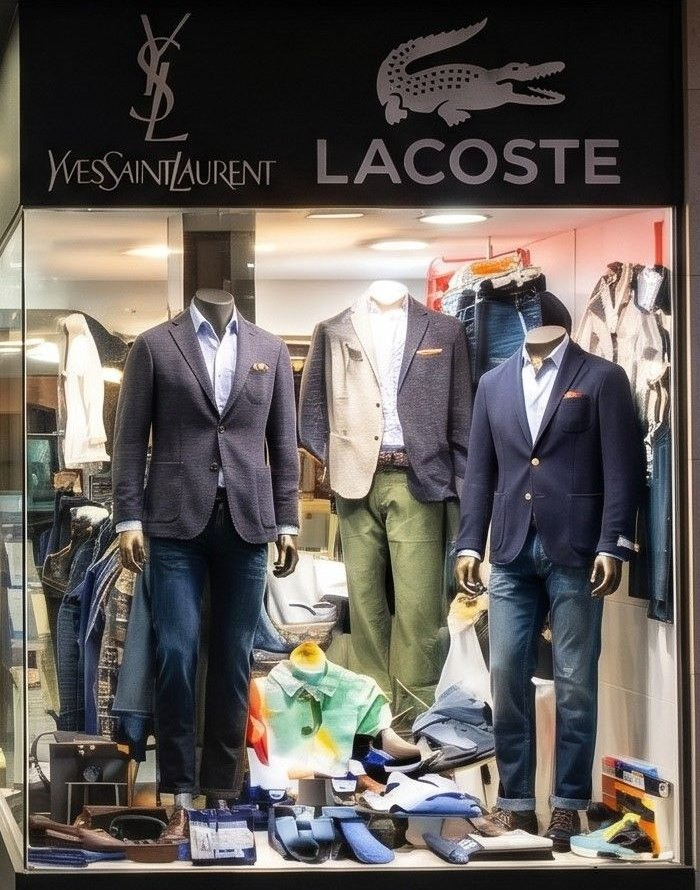
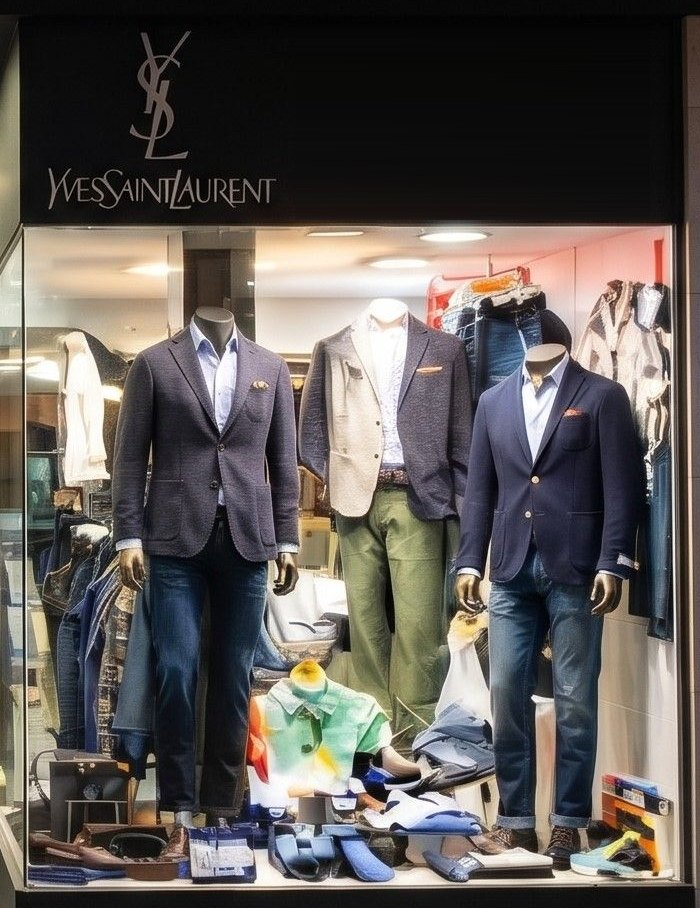
Quita la marca Lacoste (textos, FAQ, datos y cartel retocado en la foto del local)

diff --git a/index.html b/index.html
@@ -4,7 +4,7 @@
   <meta charset="UTF-8" />
   <meta name="viewport" content="width=device-width, initial-scale=1.0"/>
   <title>MIO | Ropa de hombre en Parque Patricios, Buenos Aires</title>
-  <meta name="description" content="Ropa de hombre en Parque Patricios desde 1968: jeans, chombas, bermudas y trajes. Wrangler, Taverniti, YSL, Lacoste y más. Hasta talle 64. La Rioja 2186, CABA."/>
+  <meta name="description" content="Ropa de hombre en Parque Patricios desde 1968: jeans, chombas, bermudas y trajes. Wrangler, Taverniti, YSL y más. Hasta talle 64. La Rioja 2186, CABA."/>
   <link rel="canonical" href="https://mioparquepatricios.github.io/"/>
 
   <meta property="og:type" content="website"/>
@@ -1078,7 +1078,7 @@
     .about .section-eyebrow, .temporada .section-eyebrow { color: #7d5f2a !important; }
     .about .section-title em, .temporada .section-title em { color: #9a7a3c; }
     .contact-value a { display: inline-block; padding: .55rem 0; }
-    .brands-grid { grid-template-columns: repeat(5, 1fr) !important; }
+    .brands-grid { grid-template-columns: repeat(3, 1fr) !important; }
     @media (max-width: 900px) { .brands-grid { grid-template-columns: repeat(2, 1fr) !important; } }
 
     .gi-label { position: absolute; bottom: 0; left: 0; right: 0; background: linear-gradient(transparent, rgba(0,0,0,0.75)); padding: 1.6rem .8rem .8rem; color: #fff; font-family: 'Barlow Condensed', sans-serif; font-size: .74rem; letter-spacing: .16em; text-transform: uppercase; line-height: 1.3; }
@@ -1131,7 +1131,7 @@
       {"@type": "Question", "name": "¿Dónde queda MIO?", "acceptedAnswer": {"@type": "Answer", "text": "Estamos en La Rioja 2186, Parque Patricios, Ciudad Autónoma de Buenos Aires."}},
       {"@type": "Question", "name": "¿Cuál es el horario de atención?", "acceptedAnswer": {"@type": "Answer", "text": "Atendemos de lunes a sábados de 9:30 a 13:30 hs y de 15:30 a 19:30 hs."}},
       {"@type": "Question", "name": "¿Tienen talles grandes?", "acceptedAnswer": {"@type": "Answer", "text": "Sí. Tenemos ambos y sacos hasta talle 64, y remeras y chombas hasta talle 5XL."}},
-      {"@type": "Question", "name": "¿Qué marcas de ropa de hombre venden?", "acceptedAnswer": {"@type": "Answer", "text": "Trabajamos Wrangler, Taverniti, New Man, Stone, Worren, Rochas, Yves Saint Laurent, Lacoste, Village Polo Club y Posto 5, entre otras."}},
+      {"@type": "Question", "name": "¿Qué marcas de ropa de hombre venden?", "acceptedAnswer": {"@type": "Answer", "text": "Trabajamos Wrangler, Taverniti, New Man, Stone, Worren, Rochas, Yves Saint Laurent, Village Polo Club y Posto 5, entre otras."}},
       {"@type": "Question", "name": "¿Cómo consulto por un producto, un talle o un color?", "acceptedAnswer": {"@type": "Answer", "text": "Escribinos por WhatsApp al 11 7058-3706 o llamanos al 11 4943-3076."}}
     ]
   }
@@ -1239,7 +1239,7 @@
               <div class="stat-label">Años</div>
             </div>
             <div class="stat-item">
-              <div class="stat-num">10+</div>
+              <div class="stat-num">9+</div>
               <div class="stat-label">Marcas</div>
             </div>
             <div class="stat-item">
@@ -1249,7 +1249,7 @@
           </div>
         </div>
         <div class="about-image-wrap">
-          <img src="about-vidriera.jpg" alt="Vidriera de MIO con las marcas Yves Saint Laurent y Lacoste" width="700" height="890" loading="lazy" decoding="async"/>
+          <img src="about-vidriera.jpg" alt="Vidriera de MIO con la marca Yves Saint Laurent" width="700" height="908" loading="lazy" decoding="async"/>
         </div>
       </div>
     </div>
@@ -1290,10 +1290,6 @@
         <div class="brand-card">
           <div class="brand-name">YSL</div>
           <div class="brand-tag">Haute · Prestige</div>
-        </div>
-        <div class="brand-card">
-          <div class="brand-name">Lacoste</div>
-          <div class="brand-tag">Polo · Clásico</div>
         </div>
         <div class="brand-card">
           <div class="brand-name">Village Polo Club</div>
@@ -1468,7 +1464,7 @@
       </details>
       <details>
         <summary>¿Qué marcas de ropa de hombre venden?</summary>
-        <p>Trabajamos Wrangler, Taverniti, New Man, Stone, Worren, Rochas, Yves Saint Laurent, Lacoste, Village Polo Club y Posto 5, entre otras. Mirá la sección <a href="#marcas">Marcas</a>.</p>
+        <p>Trabajamos Wrangler, Taverniti, New Man, Stone, Worren, Rochas, Yves Saint Laurent, Village Polo Club y Posto 5, entre otras. Mirá la sección <a href="#marcas">Marcas</a>.</p>
       </details>
       <details>
         <summary>¿Cómo consulto por un producto, un talle o un color?</summary>
